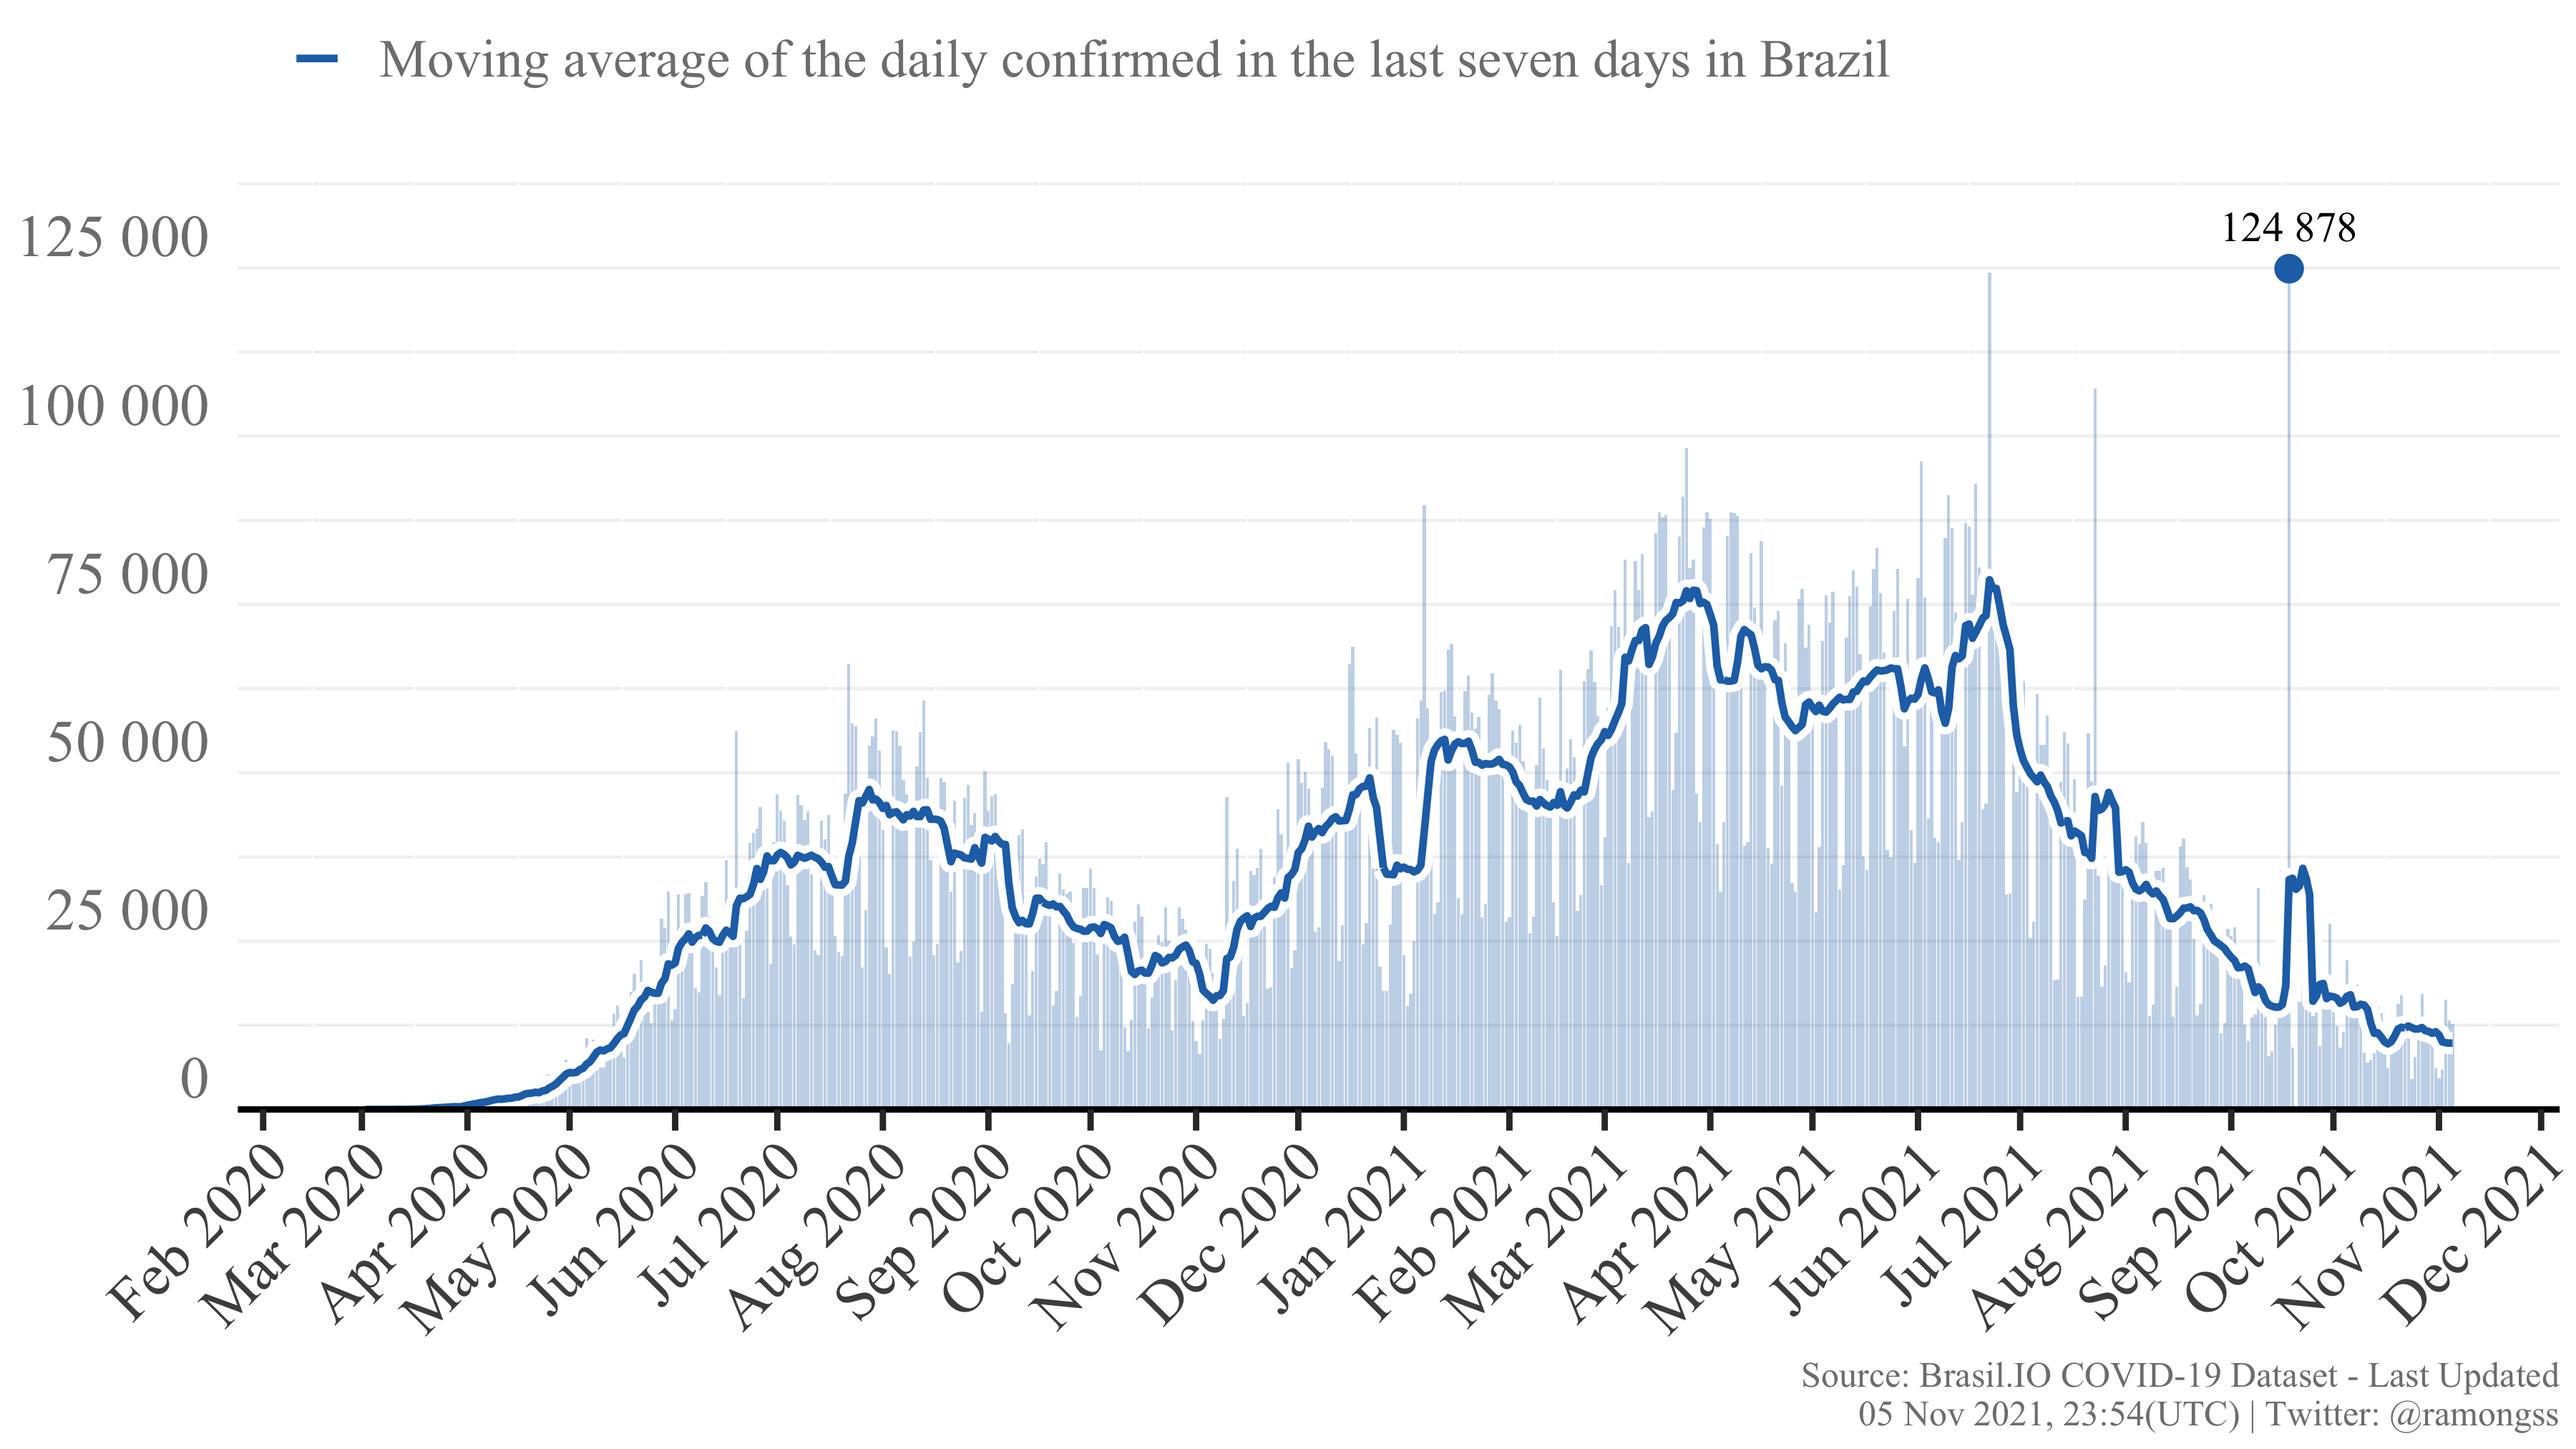
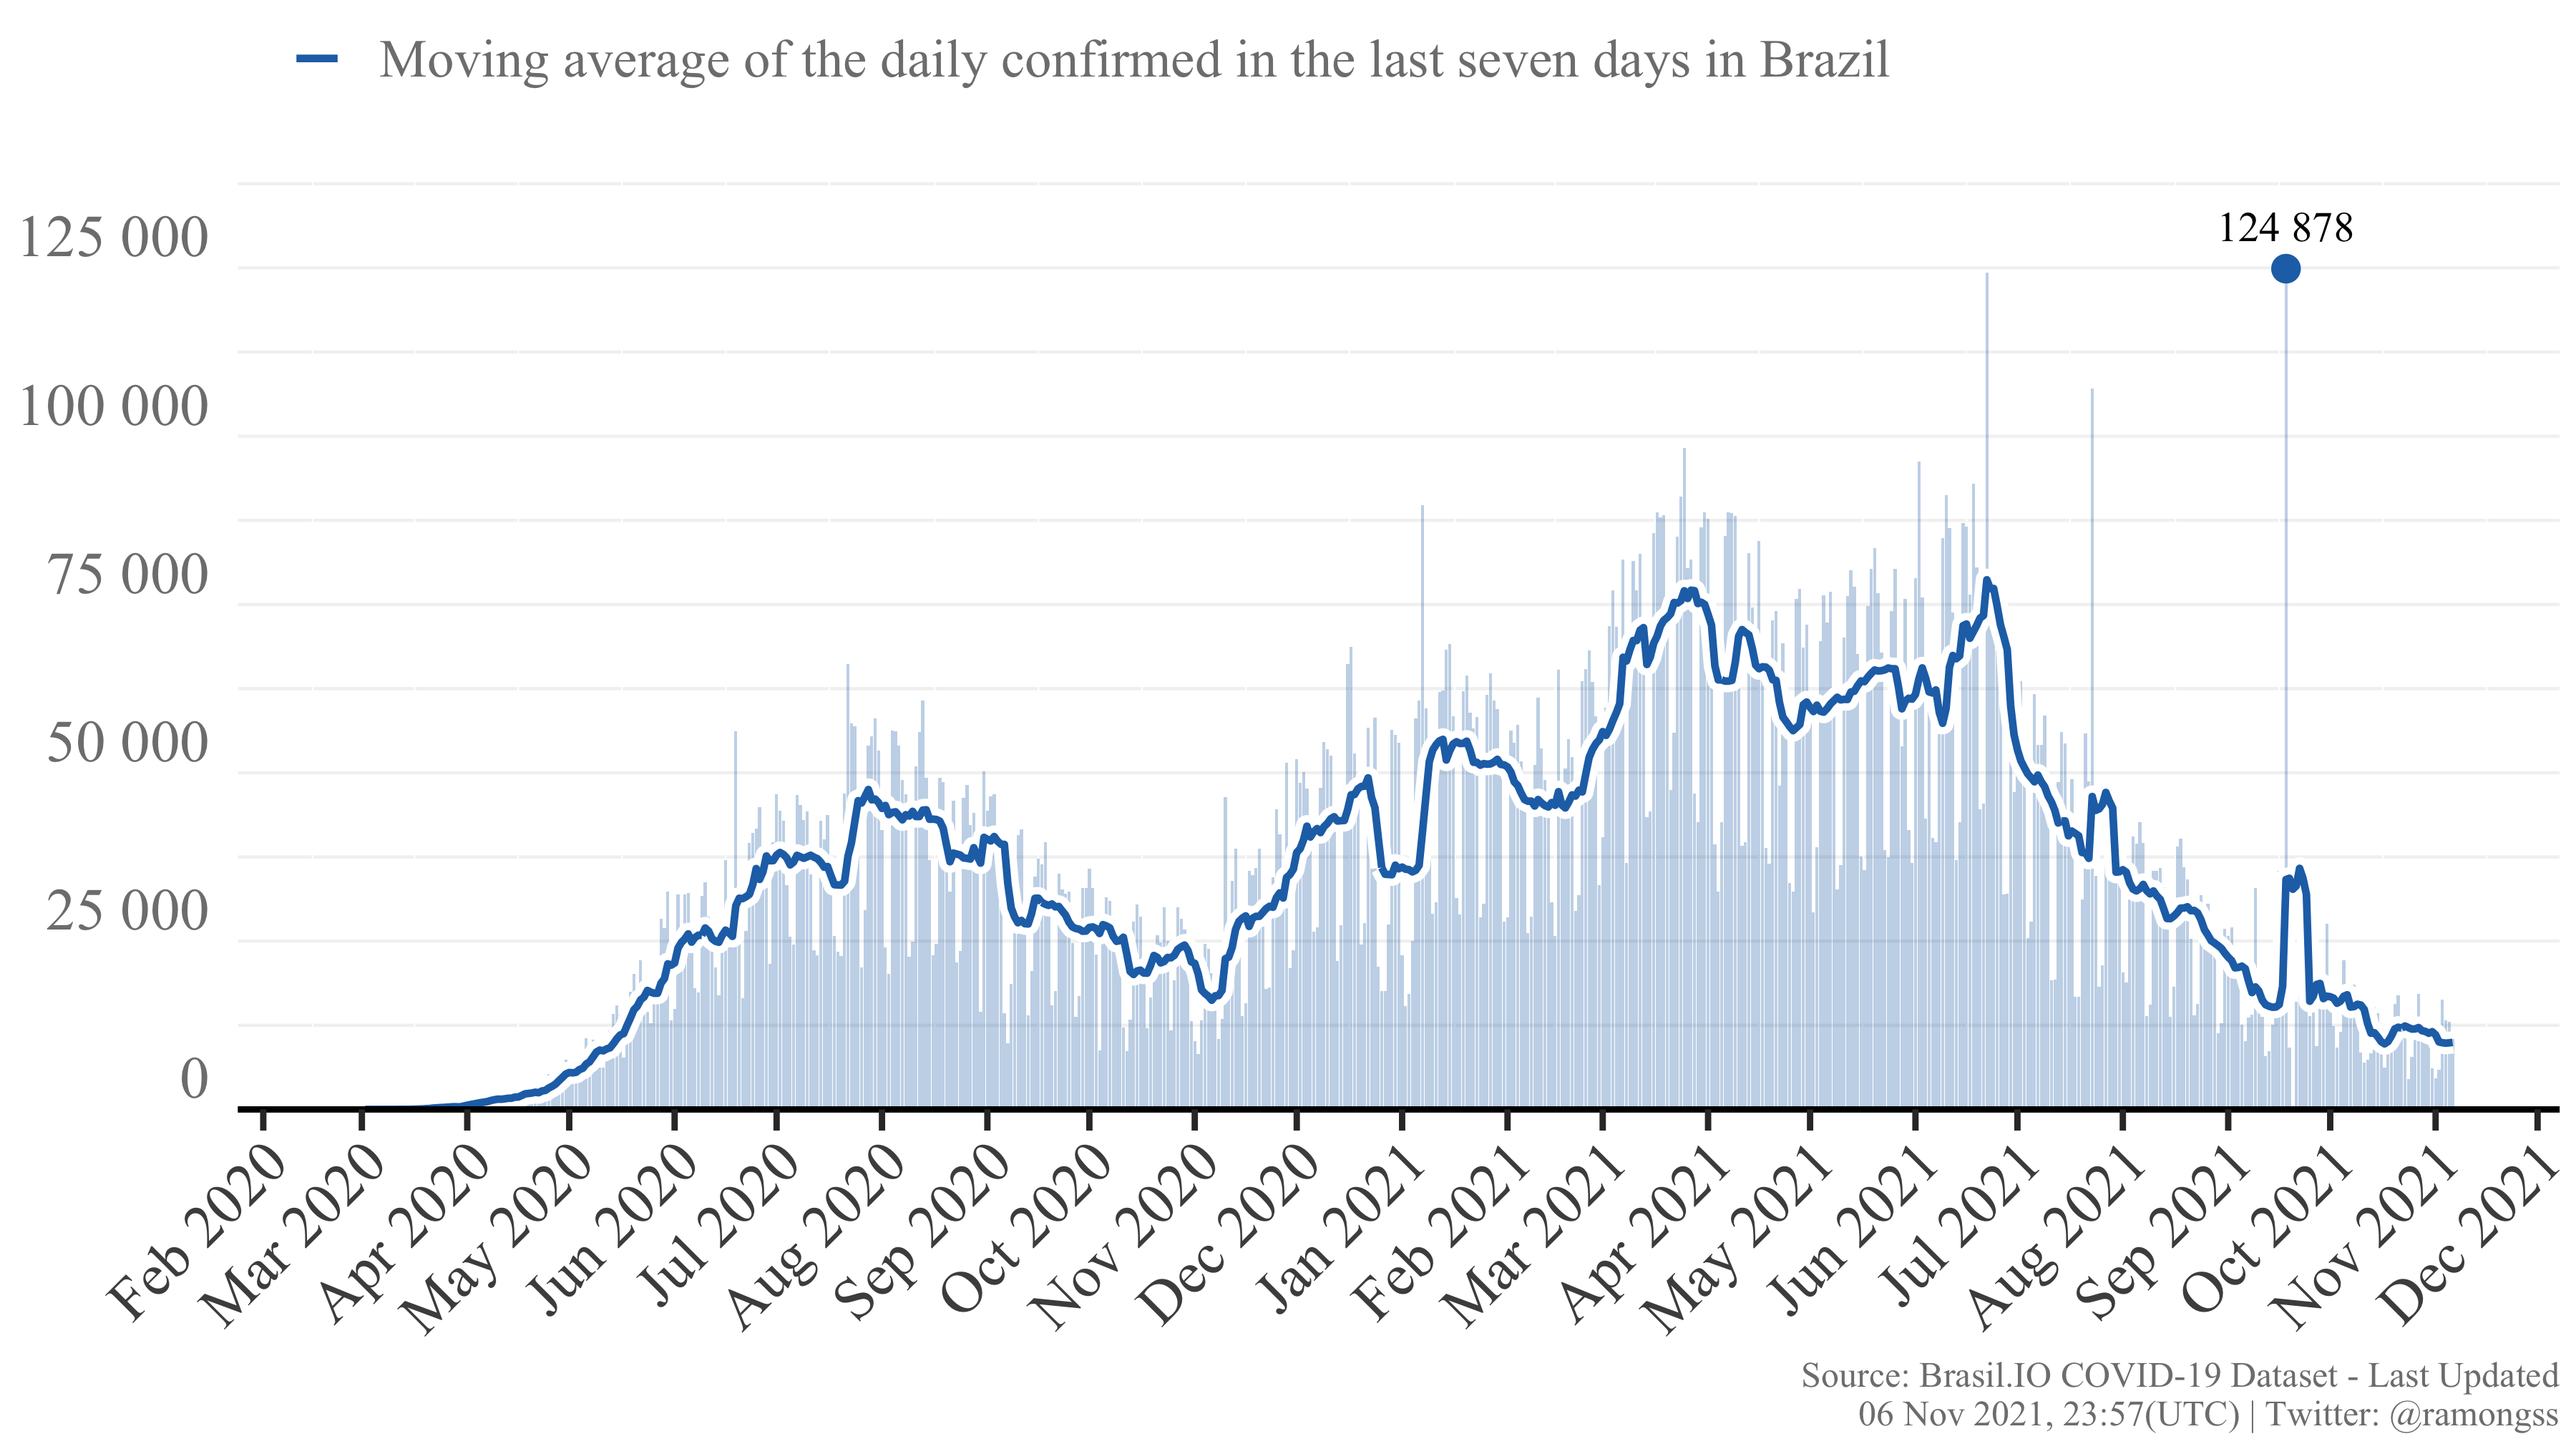
Re-build README.Rmd

diff --git a/README.md b/README.md
@@ -27,8 +27,8 @@ download_brasilio_table <- function(dataset = "covid19", table_name){
 
 ## COVID-19 Confirmed cases
 
-Currently, Brazil has a total of **21,867,430** confirmed cases at **05
-Nov, 2021**, with **12,708** new confirmed cases. The daily maximum
+Currently, Brazil has a total of **21,878,239** confirmed cases at **06
+Nov, 2021**, with **10,515** new confirmed cases. The daily maximum
 incidence was **124,878** confirmed cases at **18 Sep, 2021**. Here
 follows the Figure showing the confirmed case incidence as the bars, and
 the line as the moving average of the last 7 days.
@@ -37,8 +37,8 @@ the line as the moving average of the last 7 days.
 
 ## COVID-19 Deaths
 
-Currently, Brazil has a total of **609,334** deaths at **05 Nov, 2021**,
-with **373** new deaths. The daily maximum deaths incidence was
+Currently, Brazil has a total of **609,641** deaths at **06 Nov, 2021**,
+with **298** new deaths. The daily maximum deaths incidence was
 **4,148** deaths at **08 Apr, 2021**. Here follows the Figure showing
 the deaths incidence as the bars, and the line as the moving average of
 the last 7 days.
@@ -49,4 +49,4 @@ the last 7 days.
 
 This page is daily updated automatically using Github Actions.
 
-*Last update: 05 Nov 2021, 23:54 (UTC).*
+*Last update: 06 Nov 2021, 23:57 (UTC).*
